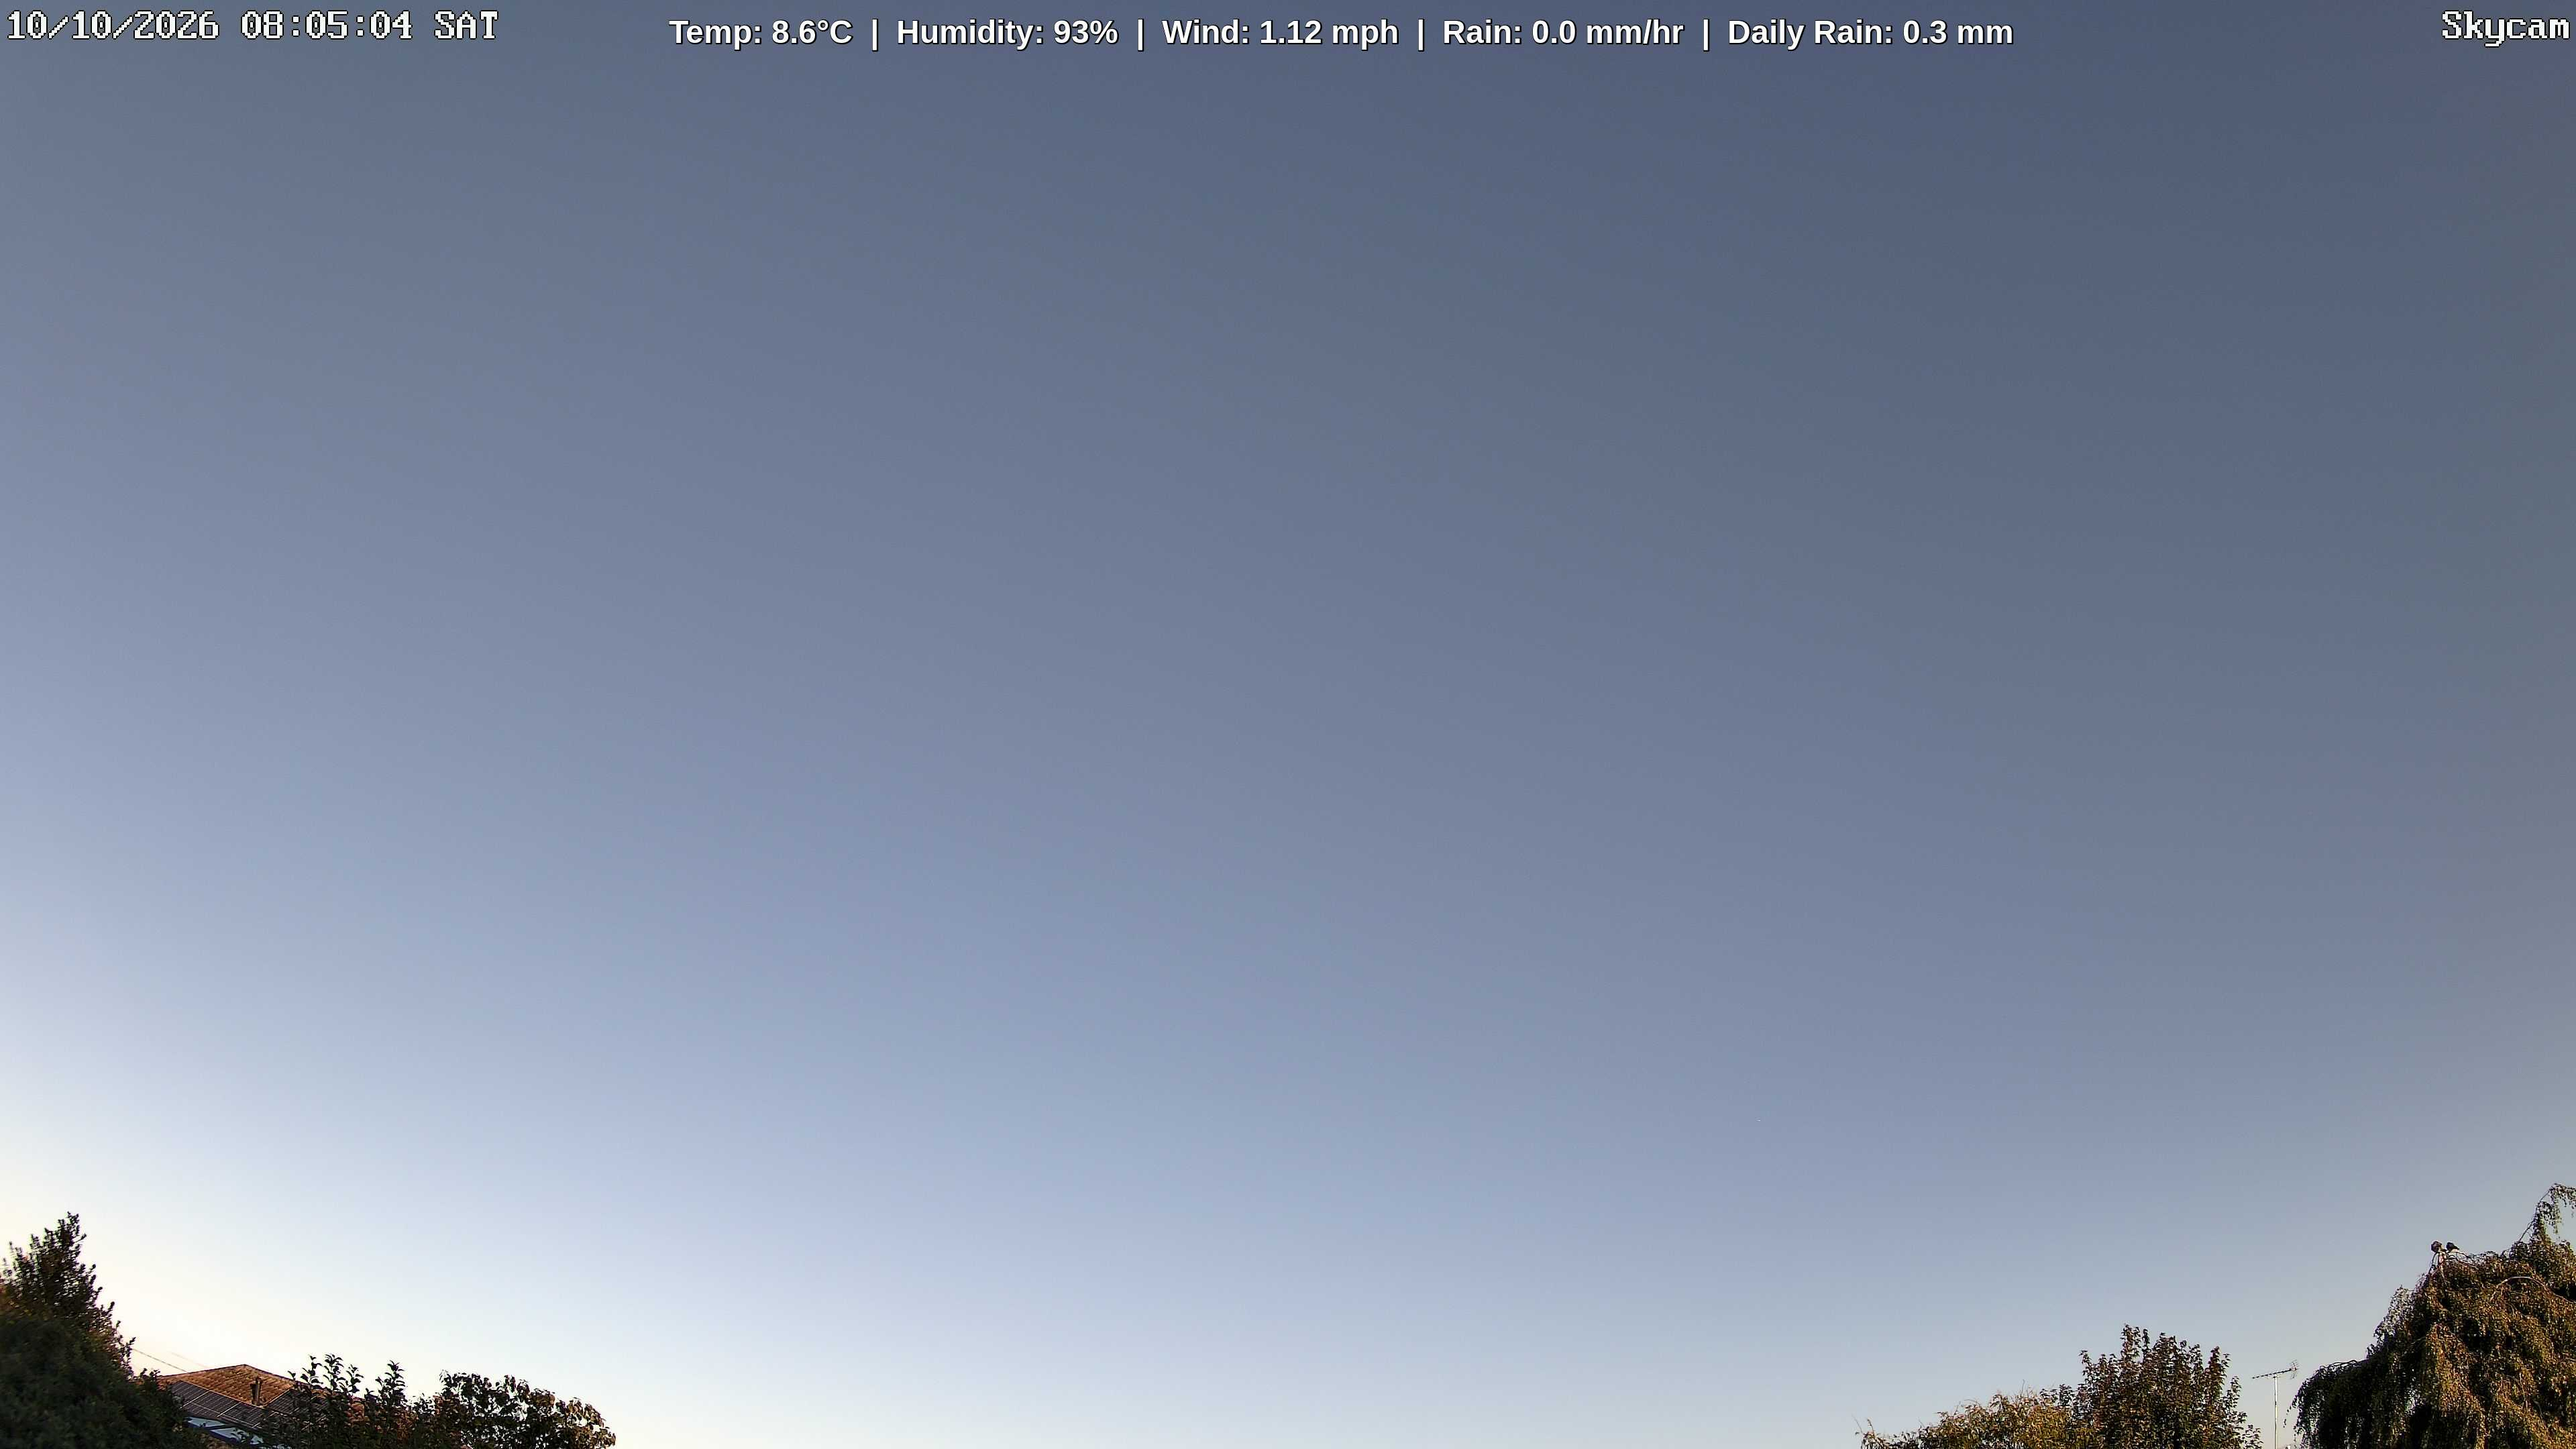
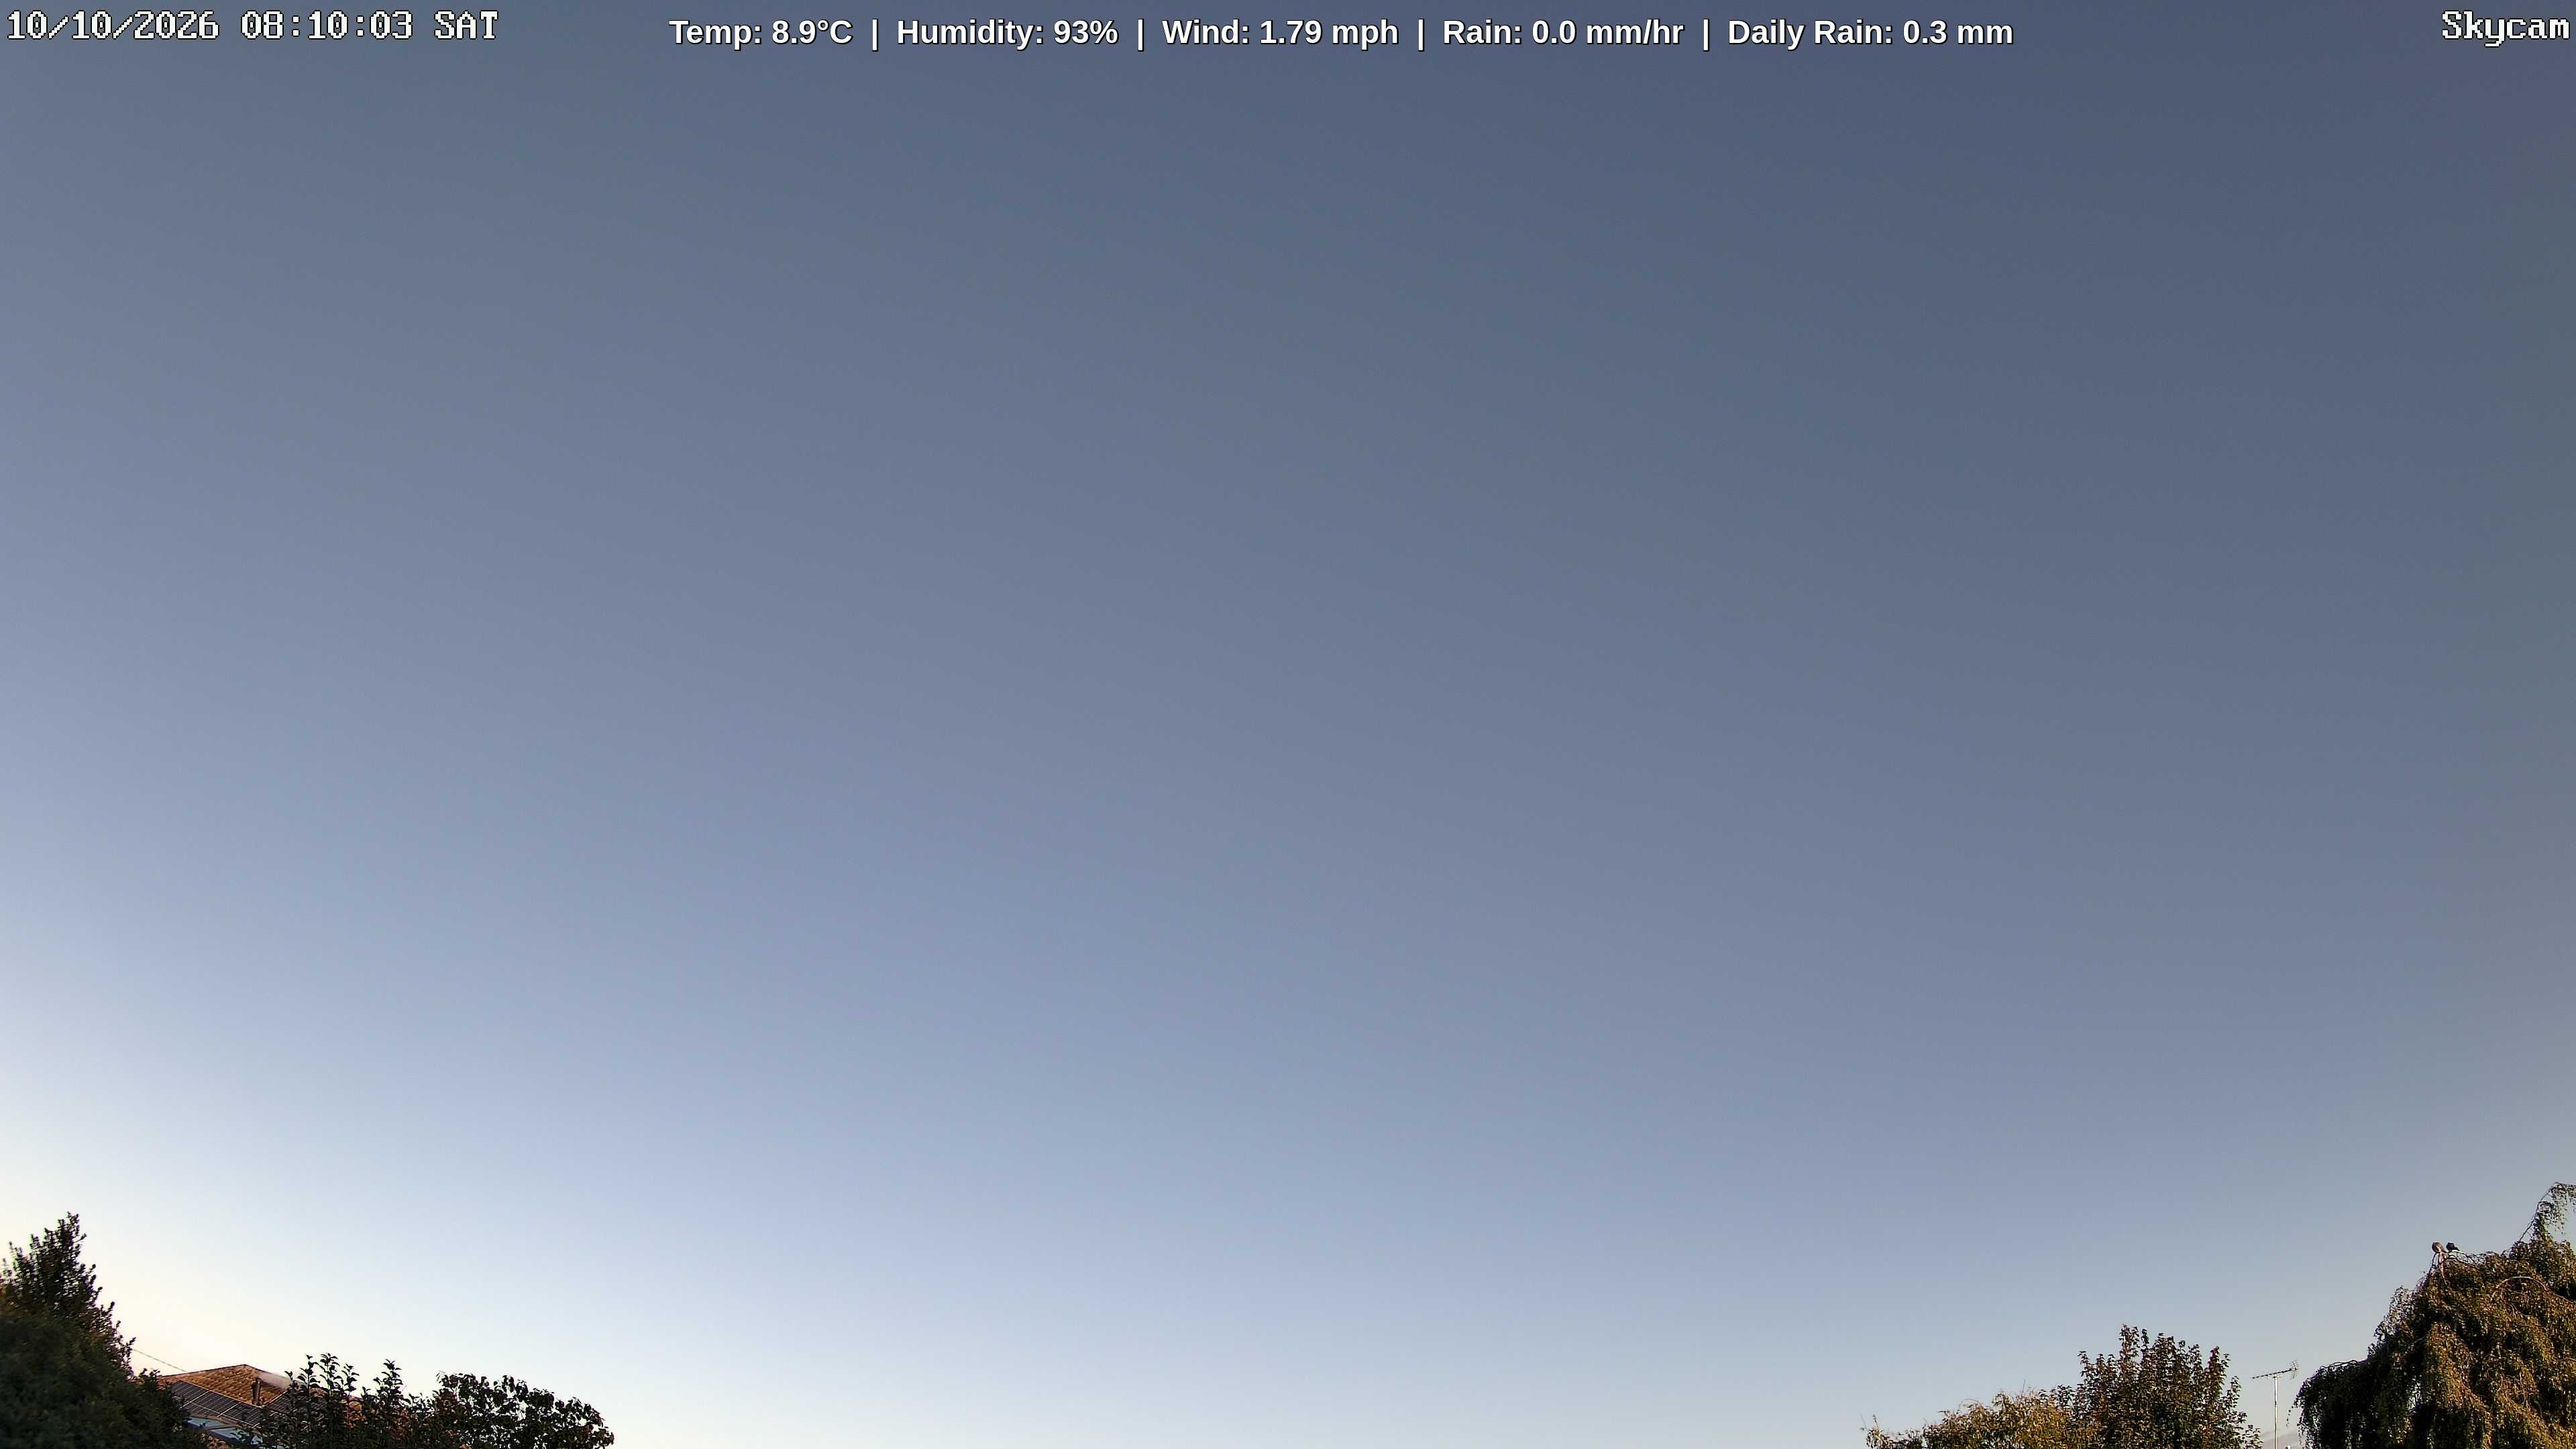
Update weather cam image with synchronized dual-layer weather metrics

diff --git a/index.html b/index.html
@@ -32,7 +32,7 @@
 </head>
 <body>
     <img id="weathercam" alt="Live Weather Snapshot">
-    <div class="banner">Temp: 8.6°C  |  Humidity: 93%  |  Wind: 1.12 mph  |  Rain: 0.0 mm/hr  |  Daily Rain: 0.3 mm</div>
+    <div class="banner">Temp: 8.9°C  |  Humidity: 93%  |  Wind: 1.79 mph  |  Rain: 0.0 mm/hr  |  Daily Rain: 0.3 mm</div>
 
     <script>
         // Shatter mobile cache engines by appending a live unique runtime timestamp 
